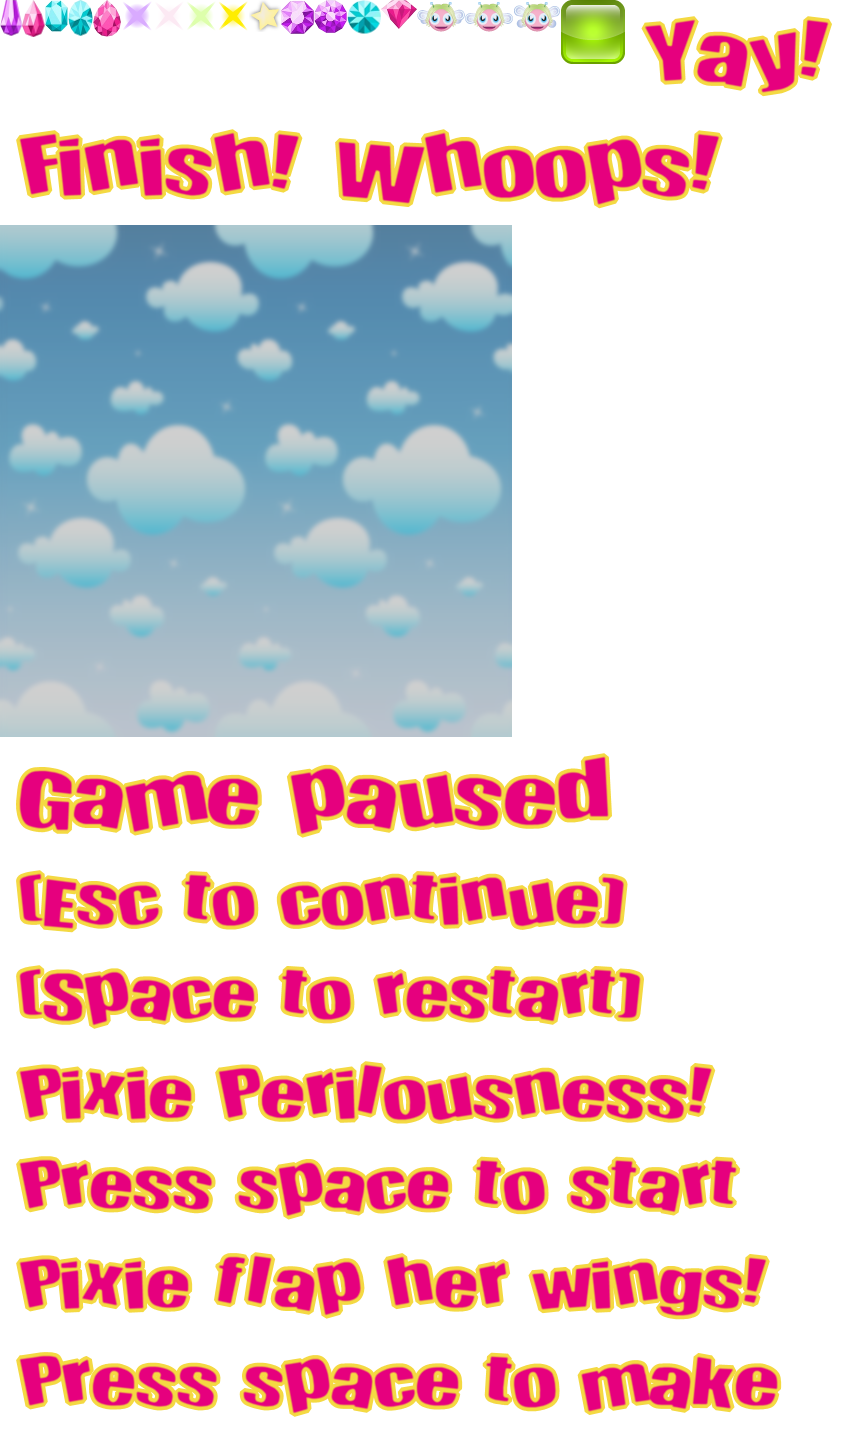
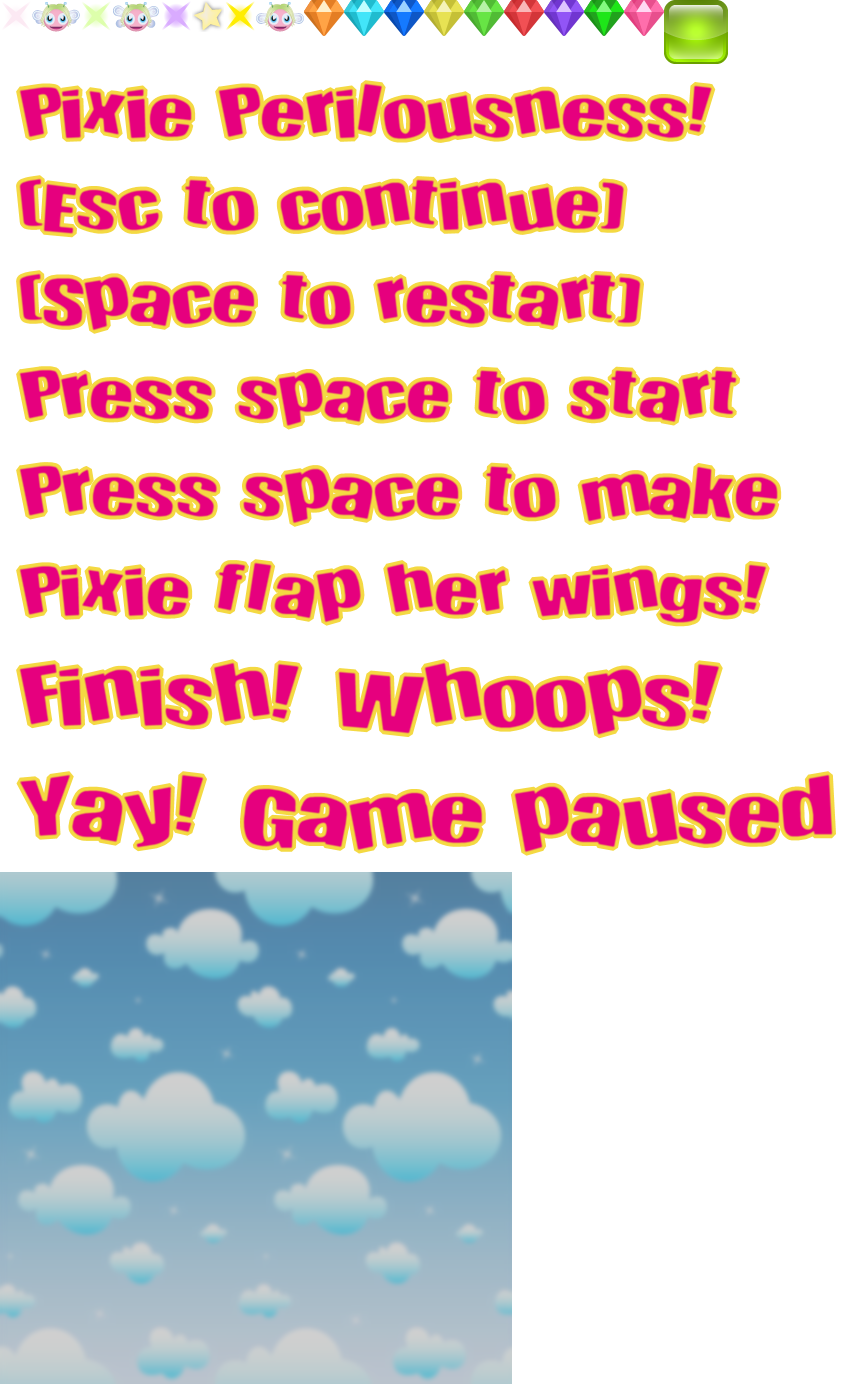
Change gem textures

diff --git a/src/World.js b/src/World.js
@@ -81,7 +81,7 @@ export default class World {
     this.stage.addChild(this.gems);
 
     for (let i = 0; i < numberOfPillars; i++) {
-      let gem = new Sprite(this.textures[`gem-${randomInt(1, 9)}-small.png`]);
+      let gem = new Sprite(this.textures[`gem-${randomInt(1, 9)}.png`]);
       this.gems.addChild(gem);
       gem.x = (i * 384) + 736 - gem.width / 2;
       gem.y = randomInt(50, rendererHeight - 50);
@@ -113,7 +113,7 @@ export default class World {
   }
 
   createPixie() {
-    let pixieFrames = [this.textures['0.png'], this.textures['1.png'], this.textures['2.png']];
+    let pixieFrames = [this.textures['pixie-0.png'], this.textures['pixie-1.png'], this.textures['pixie-2.png']];
     this.pixie = new Pixie(pixieFrames);
     this.stage.addChild(this.pixie);
   }
